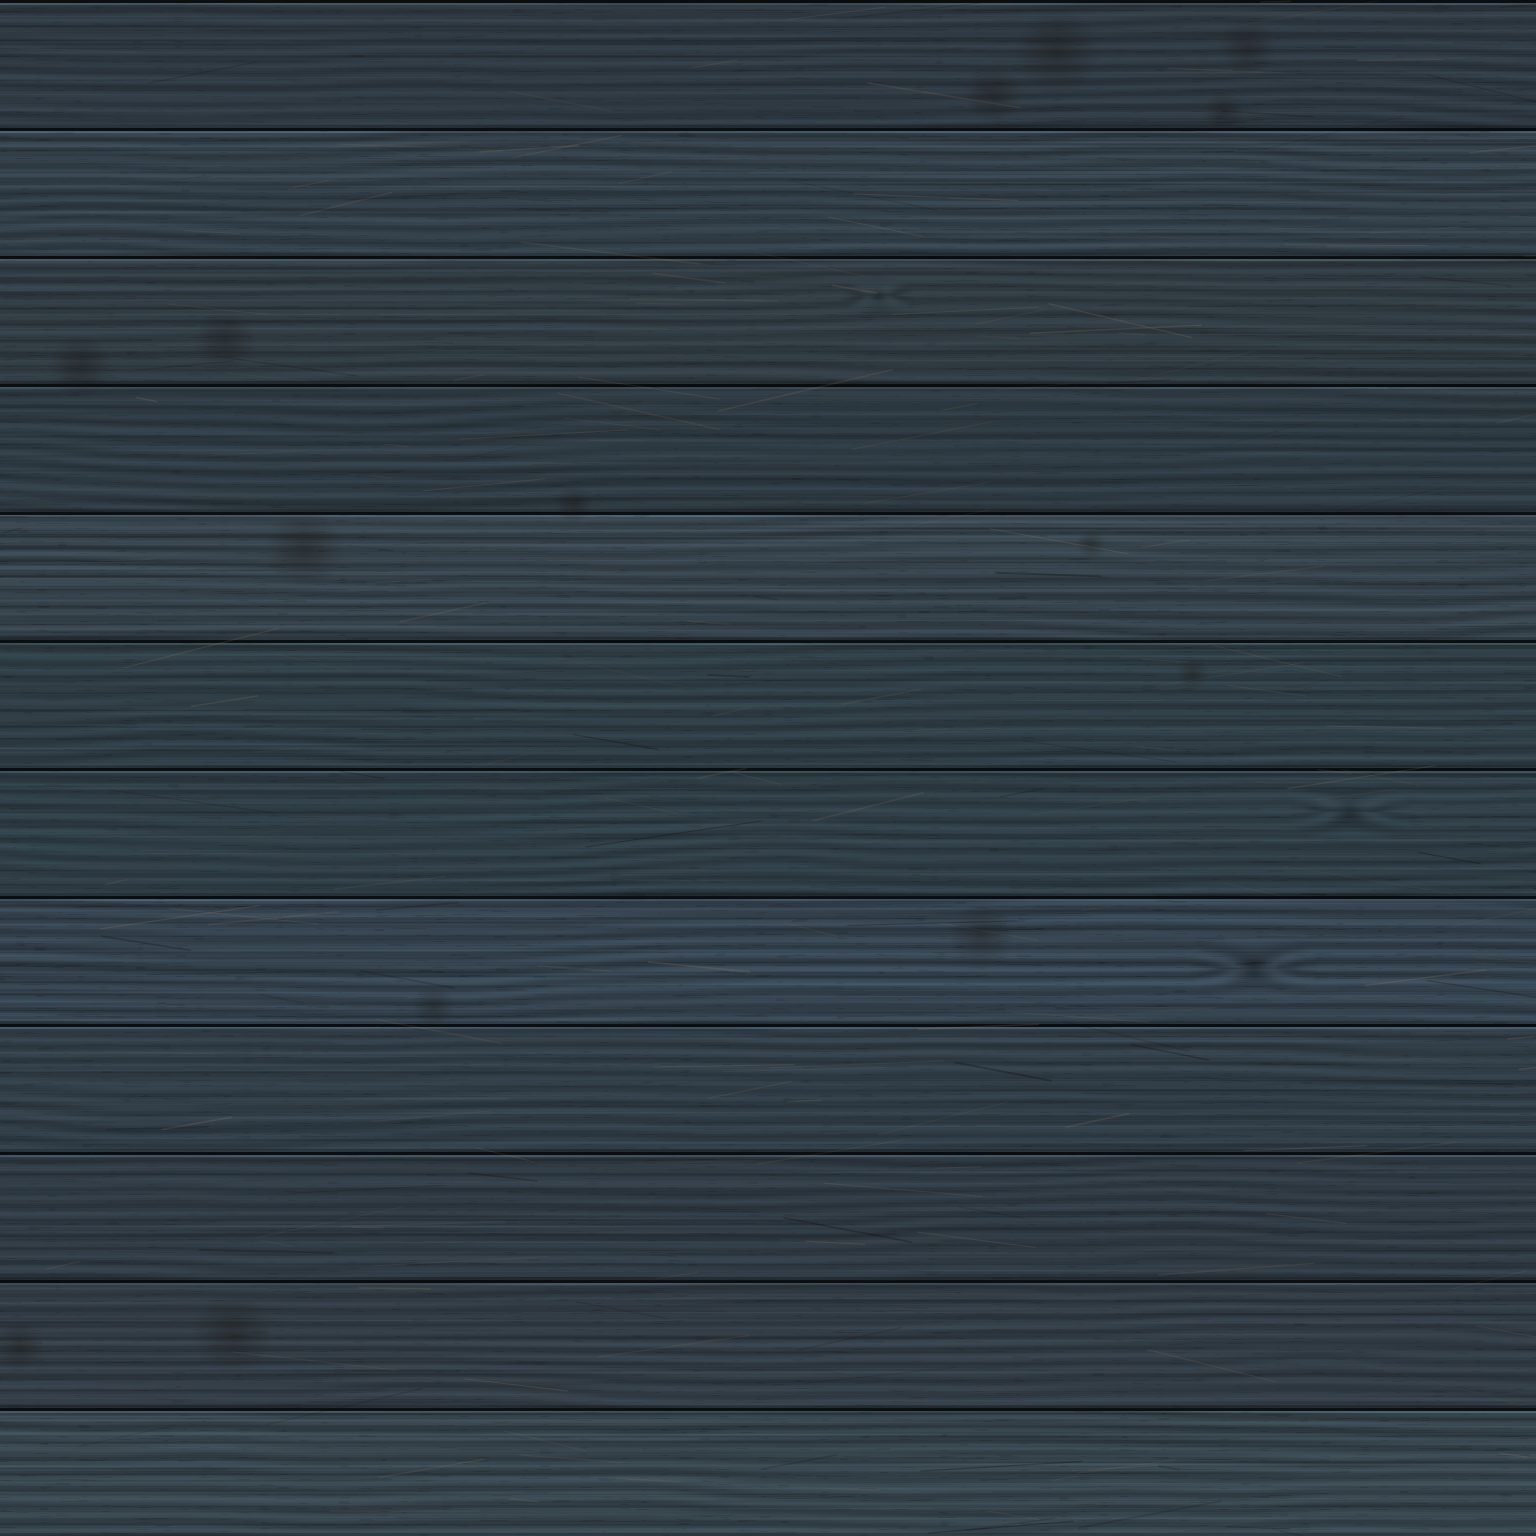
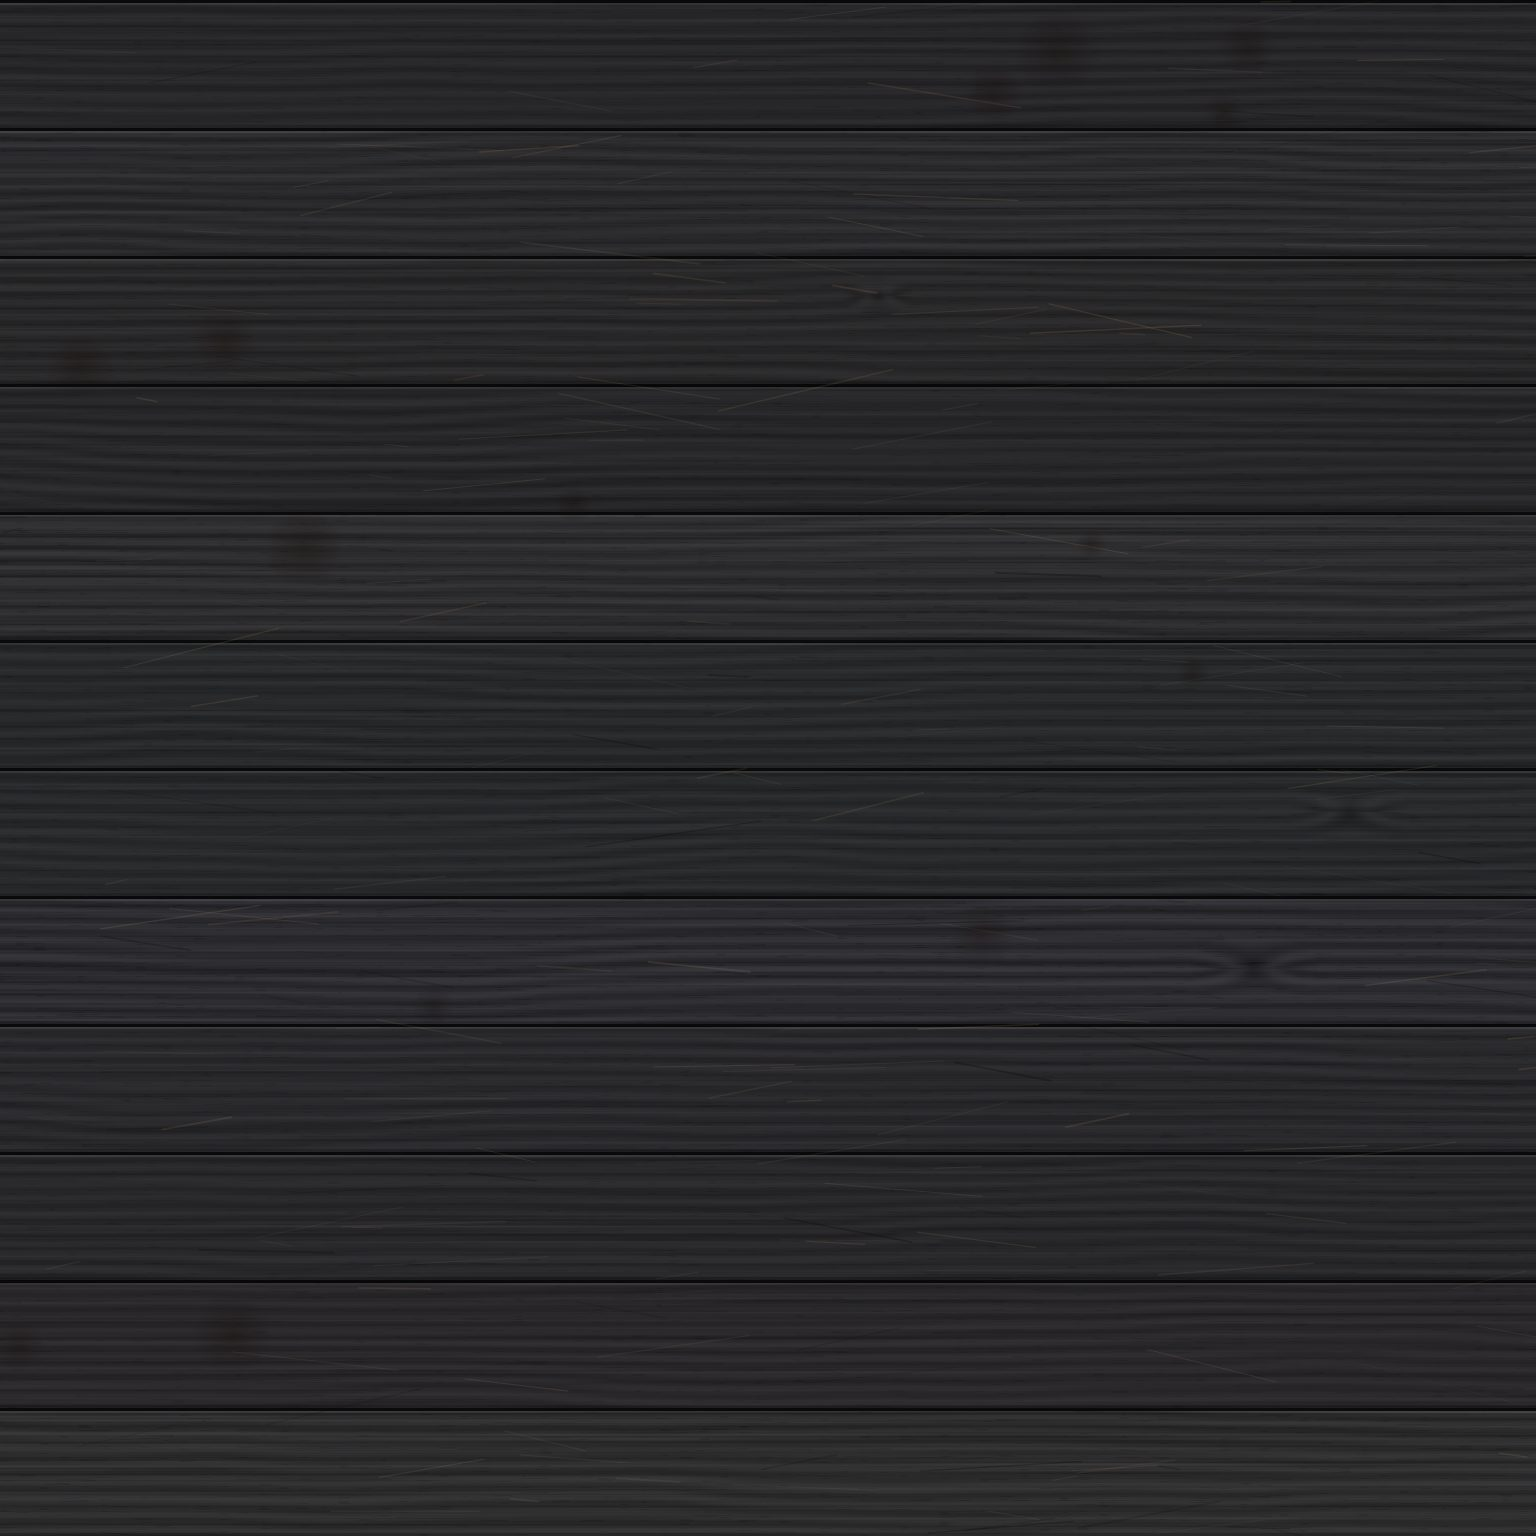
Mesa de madera oscura (carbon) para contrastar con el libro
Claude-Session: https://claude.ai/code/session_01Gxn1ihq8UtRZgWrGfQwJdi

diff --git a/index.html b/index.html
@@ -349,8 +349,8 @@ renderer.toneMapping=THREE.ACESFilmicToneMapping; renderer.toneMappingExposure=1
 renderer.shadowMap.enabled=true; renderer.shadowMap.type=THREE.PCFSoftShadowMap;
 
 const scene=new THREE.Scene();
-scene.background=new THREE.Color('#10161a');
-scene.fog=new THREE.Fog('#10161a', 28, 70);
+scene.background=new THREE.Color('#111113');
+scene.fog=new THREE.Fog('#111113', 28, 70);
 const camera=new THREE.PerspectiveCamera(32, 1, .1, 200);
 
 scene.add(new THREE.HemisphereLight('#ffe9c8','#3a2414',.55));
@@ -367,7 +367,7 @@ const cargarTex=(url,{color=false,rep,ok,fallo}={})=>{ const t=TL.load(url,ok,un
 
 // Mesa: madera de tablones, en un tono frío que contrasta con el libro rojo
 (() => { const mat=new THREE.MeshStandardMaterial({roughness:.78}); mat.color.set('#2d3a42').convertSRGBToLinear();   // r128: los colores hexadecimales son lineales
-  mat.map=cargarTex('assets/mesa-color.jpg',{color:true,ok:()=>{ mat.color.set('#ffffff'); mat.needsUpdate=true; },fallo:()=>{ mat.map=mat.normalMap=mat.roughnessMap=null; mat.roughness=.78; mat.color.set('#34444e').convertSRGBToLinear(); mat.needsUpdate=true; }});
+  mat.map=cargarTex('assets/mesa-color.jpg',{color:true,ok:()=>{ mat.color.set('#ffffff'); mat.needsUpdate=true; },fallo:()=>{ mat.map=mat.normalMap=mat.roughnessMap=null; mat.roughness=.78; mat.color.set('#2c2c2f').convertSRGBToLinear(); mat.needsUpdate=true; }});
   if (!baja){ mat.normalMap=cargarTex('assets/mesa-normal.jpg'); mat.normalScale.set(.9,.9); mat.roughnessMap=cargarTex('assets/mesa-rug.jpg'); mat.roughness=1; }
   const m=new THREE.Mesh(new THREE.PlaneGeometry(52,52), mat);
   m.rotation.x=-Math.PI/2; m.receiveShadow=true; scene.add(m); })();

diff --git a/arte/texturas/generar.html b/arte/texturas/generar.html
@@ -15,7 +15,7 @@ function normalDe(h,W,H,fuerza){const c=document.createElement('canvas');c.width
  for(let y=0;y<H;y++)for(let x=0;x<W;x++){const l=h[y*W+(x+W-1)%W],r=h[y*W+(x+1)%W],u=h[((y+H-1)%H)*W+x],d=h[((y+1)%H)*W+x];let nx=(l-r)*fuerza,ny=(u-d)*fuerza,nz=1;const k=1/Math.hypot(nx,ny,nz);const i=(y*W+x)*4;im.data[i]=(nx*k*.5+.5)*255;im.data[i+1]=(ny*k*.5+.5)*255;im.data[i+2]=(nz*k*.5+.5)*255;im.data[i+3]=255;}
  g.putImageData(im,0,0);return c;}
 /* ---------- MADERA: tablones con veta, nudos, rayones y barniz ---------- */
-const PAL={azul:{tin:[52,66,76],v:6,mul:1.05},miel:{tin:[150,104,58],v:14,mul:1.0},nogal:{tin:[60,37,23],v:6,mul:.98}};let pal=PAL.azul;
+const PAL={azul:{tin:[52,66,76],v:6,mul:1.05},miel:{tin:[150,104,58],v:14,mul:1.0},nogal:{tin:[60,37,23],v:6,mul:.98},carbon:{tin:[46,46,49],v:5,mul:1.0}};let pal=PAL.azul;
 function madera(S=2048,tablones=12){const W=S,H=S,col=new Uint8ClampedArray(W*H*4),alt=new Float32Array(W*H),rug=new Uint8ClampedArray(W*H*4);const th=H/tablones;
  for(let k=0;k<tablones;k++){const y0=Math.round(k*th),y1=Math.round((k+1)*th),seed=k*37.7+3.1,tono=.82+R()*.36,tin=[pal.tin[0]+R()*pal.v,pal.tin[1]+R()*pal.v*.6,pal.tin[2]+R()*pal.v*.5];
   const nudos=[];if(R()<.4)nudos.push({x:W*(.1+R()*.8),y:th*(.3+R()*.4),r:th*(.05+R()*.05)});

diff --git a/arte/texturas/hornear.js b/arte/texturas/hornear.js
@@ -1,5 +1,5 @@
 // Hornea las texturas del libro y la mesa y las guarda en assets/. Uso (desde la raíz del repo):
-//   node arte/texturas/hornear.js [azul|miel|nogal]
+//   node arte/texturas/hornear.js [azul|miel|nogal|carbon]
 // Necesita Playwright (npm i playwright) y un navegador. Todo lo genera el código; no hay imágenes externas.
 const { chromium } = require('playwright'); const fs = require('fs'), path = require('path');
 (async () => {
